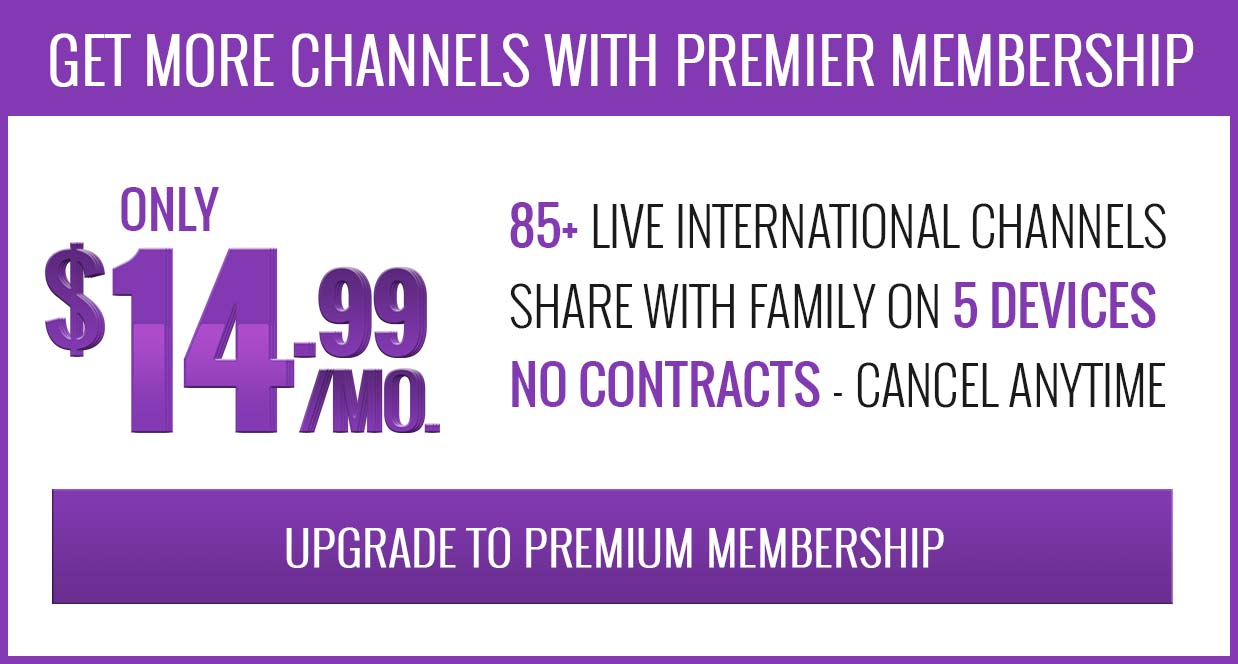
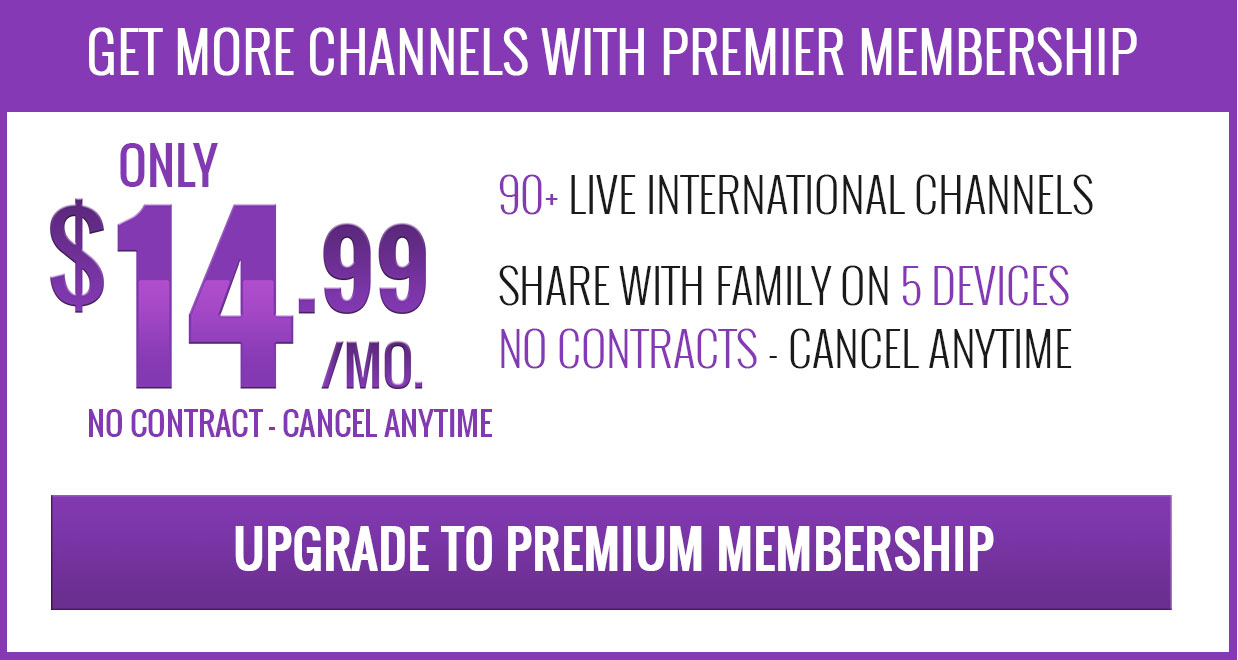
welcome email

diff --git a/server/common/config/all.js b/server/common/config/all.js
@@ -154,7 +154,7 @@ module.exports = {
         es: '¡Bienvenido a YipTV!'
     },
     accountVerifiedEmailBody: {
-        en: '<table cellpadding="0" cellspacing="0" border="0" style="background-color:#fff;width:800px;height:100%;font-family:Helvetica"><tr><td align="center"><table cellpadding="0" cellspacing="0" border="0"><tr><td><table cellpadding="0" cellspacing="0" border="0" style="width:100%"><tr><td style="text-align:center"><img style="vertical-align:middle" title="YipTV" alt="YipTV" src="{0}emails/common/welcome-header.jpg"></table><tr><td><table cellpadding="0" cellspacing="0" border="0" style="width:100%"><tr><td style="text-align:center"><img style="vertical-align:middle" title="YipTV" alt="YipTV" src="{0}emails/en/welcome-headline.jpg"></table><tr><td>&nbsp;<tr><td><table cellpadding="0" cellspacing="0" border="0" style="width:100%"><tr><td width="15%">&nbsp;<td width="70%" style="color:#380053;font-size:14px;line-height:20px"><p>Hello {1},</p><p>You are now officially a YipTV Member and ready to watch live stream TV! Nice going!</p><td width="15%">&nbsp;<tr><td>&nbsp;<tr><td>&nbsp;<tr><td width="15%">&nbsp;<td width="70%" style="color:#380053;font-size:20px;font-weight:700">Let\'s get started!<td width="15%">&nbsp;<tr><td width="15%">&nbsp;<td width="70%" style="color:#380053;font-size:14px;padding-top:5px">Download our FREE app or <a href="https://app.yiptv.com/sign-in?lang=en">watch in your desktop browser</a>.<td width="15%">&nbsp;</table><tr><td>&nbsp;<tr><td><table cellpadding="0" cellspacing="0" border="0" style="width:100%"><tr><td colspan="2" style="text-align:center"><img style="vertical-align:middle" title="YipTV" alt="YipTV" src="{0}emails/common/app-image-in-phone.jpg"><tr><td>&nbsp;<tr><td style="text-align:right;padding-right:5px"><a href="https://play.google.com/store/apps/details?id=com.yiptv.android.client3"><img style="vertical-align:middle" src="{0}emails/common/google-play.png"></a><td style="text-align:left;padding-left:5px"><a href="https://itunes.apple.com/us/app/yiptv-live-tv-for-international/id972197370?mt=8"><img style="vertical-align:middle" src="{0}emails/common/app-store.png"></a></table><tr><td>&nbsp;<tr><td><table cellpadding="0" cellspacing="0" border="0" style="width:100%"><tr><td width="15%">&nbsp;<td width="70%"><table cellpadding="0" cellspacing="0" border="0" style="width:100%;background-color:#E7FEC6;padding:10px 10px 0 10px"><tr><td style="color:#75CE00;font-weight:700;font-size:20px">Free Membership<tr><td style="color:#471752;font-size:14px;padding-top:5px">New to YipTV? Log in now, because for the next 7 days, you have access to 9 Bonus Channels! Upgrade to Premium Membership anytime or keep your Free Membership for as long as you like - hassle free.<tr><td style="padding-top:20px"><p style="color:#75CE00;font-weight:700;font-size:14px">Here\'s what you get:</p><ul style="color:#75CE00;font-size:14px"><li><span style="color:#471752">17 FREE channels with sports, movies, news, and entertainment programming.</span></li><li><span style="color:#471752">9 Bonus Channels FREE for the first 7 days.</span></li><li><span style="color:#471752">Live stream on 2 of your favorite devices simultaneously.</span></li><li><span style="color:#471752">FREE Android or Apple app.</span></li></ul><tr><td><table cellpadding="0" cellspacing="0" border="0" style="width:100%"><tr><td width="10%" style="font-size:150px;font-weight:700;color:#7ED008">9<td width="63%"><table cellpadding="0" cellspacing="0" border="0" style="width:100%;padding-left:5px"><tr><td style="font-size:31px;font-weight:700;color:#7ED008">FREE ADDITIONAL<tr><td style="font-size:30px;font-weight:700;color:#7ED008">BONUS CHANNELS<tr><td style="font-size:23px;color:#7ED008">FOR YOUR FIRST 7 DAYS</table><td width="27%"><img src="{0}emails/common/channel-box.png"></table></table><td width="15%">&nbsp;</table><tr><td>&nbsp;<tr><td><table cellpadding="0" cellspacing="0" border="0" style="width:100%"><tr><td width="15%">&nbsp;<td width="70%"><table cellpadding="0" cellspacing="0" border="0" style="width:100%;background-color:#EDF4FA;padding:10px 10px 30px 10px"><tr><td style="color:#7500AC;font-weight:700;font-size:20px">Premium Membership<tr><td style="color:#471752;font-size:14px;padding-top:5px">Decided to go Premium? Congratulations, you now have access to 90+ high quality live channels for one low monthly price!<tr><td style="padding-top:20px"><p style="color:#7500AC;font-weight:700;font-size:14px">Premium Membership includes:</p><ul style="color:#7500AC;font-size:14px"><li><span style="color:#471752">90+ high quality live channels.</span></li><li><span style="color:#471752">Watch on 5 devices simultaneously.</span></li><li><span style="color:#471752">FREE Android or Apple app.</span></li></ul><tr><td><p style="color:#7500AC;font-weight:700;font-size:14px">Not yet a Premium Member? Get 90+ Channels for only $14.99/mo.!</p></table><td width="15%">&nbsp;</table><tr><td><table cellpadding="0" cellspacing="0" border="0" style="width:100%"><tr><td width="15%">&nbsp;<td width="70%"><table cellpadding="0" cellspacing="0" border="0" style="width:100%;background-color:#300349;padding:10px 10px 10px 10px"><tr><td width="38%" style="color:#7500AC;font-weight:700;font-size:20px"><table cellpadding="0" cellspacing="0" border="0" style="width:100%;padding-left:5px"><tr><td style="font-size:30px;font-weight:700;color:#FFF">UPGRADE TO<tr><td style="font-size:42px;font-weight:700;color:#FFF">PREMIUM<tr><td style="font-size:19px;color:#FFF">ONLY $14.99/MONTH!</table><td width="64%"><ul style="color:#FFF;font-size:16px;padding-top:10px"><li><span style="color:#FBF7FC">90+ LIVE international channels.</span></li><li><span style="color:#FBF7FC">Stream on up to 5 devices simultaneously to share with family.</span></li><li><span style="color:#FBF7FC">No contract - cancel any time.</span></li></ul></table><td width="15%">&nbsp;<tr><td>&nbsp;<tr><td colspan="3" style="text-align:center"><a href="https://www.yiptv.com/live-tv/index.php/en/sign-up/premium/"><img src="{0}emails/en/upgrade-button.png"></a><tr><td>&nbsp;<tr><td>&nbsp;<tr><td colspan="3" style="text-align:center;font-size:16px;color:#000">CONNECT WITH US<tr><td colspan="3" style="text-align:center"><a href="https://www.facebook.com/YipTV/"><img src="{0}emails/common/facebook.png"></a> <a href="https://twitter.com/YipTV"><img src="{0}emails/common/twitter.png"></a> <a href="http://linkedin.com/company/yiptv"><img src="{0}emails/common/linkedin.png"></a> <a href="https://plus.google.com/110377468150377213884"><img src="{0}emails/common/google-plus.png"></a><tr><td>&nbsp;<tr><td colspan="3" style="text-align:center;font-size:22px;color:#898889">QUESTIONS? NO PROBLEM, CALL US! 855-919-4788</table><tr><td><table cellpadding="0" cellspacing="0" border="0" style="width:100%"><tr><td width="15%">&nbsp;<td width="70%"><table cellpadding="0" cellspacing="0" border="0" style="width:100%;background-color:#878787;padding:10px 10px 10px 10px"><tr><td width="33%" style="text-align:center"><a style="color:#FFF;font-weight:700;font-size:16px;text-decoration:none" href="https://www.yiptv.com/live-tv/index.php/en/yip-now/">VISIT OUR BLOG</a><td width="34%" style="text-align:center"><a style="color:#FFF;font-weight:700;font-size:16px;text-decoration:none" href="https://www.yiptv.com/live-tv/index.php/en/faqs/">FAQs</a><td width="33%" style="text-align:center"><a style="color:#FFF;font-weight:700;font-size:16px;text-decoration:none" href="https://app.yiptv.com/contact-us?lang=en">CONTACT</a><tr><td>&nbsp;<tr><td>&nbsp;<tr><td colspan="3" style="color:#FFF;font-size:12px;text-align:center">Copyright &copy; 2015 YipTV, Inc., All rights reserved.</table><td width="15%">&nbsp;<tr><td>&nbsp;</table></table></table>',
+        en: '<table cellpadding="0" cellspacing="0" border="0" style="background-color:#fff;width:800px;height:100%;font-family:Helvetica"><tr><td align="center"><table cellpadding="0" cellspacing="0" border="0"><tr><td><table cellpadding="0" cellspacing="0" border="0" style="width:100%"><tr><td style="text-align:center"><img style="vertical-align:middle" src="{0}emails/common/welcome-header.jpg"></table><tr><td><table cellpadding="0" cellspacing="0" border="0" style="width:100%"><tr><td style="text-align:center"><img style="vertical-align:middle" src="{0}emails/en/welcome-headline.jpg"></table><tr><td>&nbsp;<tr><td><table cellpadding="0" cellspacing="0" border="0" style="width:100%"><tr><td width="15%">&nbsp;<td width="70%" style="color:#380053;font-size:14px;line-height:20px"><p>Hello {1},</p><p>You are now officially a YipTV Member and ready to watch live stream TV! Nice going!</p><td width="15%">&nbsp;<tr><td>&nbsp;<tr><td>&nbsp;<tr><td width="15%">&nbsp;<td width="70%" style="color:#380053;font-size:20px;font-weight:700">Let\'s get started!<td width="15%">&nbsp;<tr><td width="15%">&nbsp;<td width="70%" style="color:#380053;font-size:14px;padding-top:5px">Download our FREE app or <a href="https://app.yiptv.com/sign-in?lang=en">watch in your desktop browser</a>.<td width="15%">&nbsp;</table><tr><td>&nbsp;<tr><td><table cellpadding="0" cellspacing="0" border="0" style="width:100%"><tr><td colspan="2" style="text-align:center"><img style="vertical-align:middle" src="{0}emails/common/app-image-in-phone.jpg"><tr><td>&nbsp;<tr><td style="text-align:right;padding-right:5px"><a href="https://play.google.com/store/apps/details?id=com.yiptv.android.client3"><img style="vertical-align:middle" src="{0}emails/common/google-play.png"></a><td style="text-align:left;padding-left:5px"><a href="https://itunes.apple.com/us/app/yiptv-live-tv-for-international/id972197370?mt=8"><img style="vertical-align:middle" src="{0}emails/common/app-store.png"></a></table><tr><td>&nbsp;<tr><td><table cellpadding="0" cellspacing="0" border="0" style="width:100%"><tr><td width="15%">&nbsp;<td width="70%"><table cellpadding="0" cellspacing="0" border="0" style="width:100%;background-color:#E7FEC6;padding:10px 10px 0 10px"><tr><td style="color:#75CE00;font-weight:700;font-size:20px">Free Membership<tr><td style="color:#471752;font-size:14px;padding-top:5px">New to YipTV? Log in now, because for the next 7 days, you have access to 9 Bonus Channels! Upgrade to Premium Membership anytime or keep your Free Membership for as long as you like - hassle free.<tr><td style="padding-top:20px"><p style="color:#75CE00;font-weight:700;font-size:14px">Here\'s what you get:</p><ul style="color:#75CE00;font-size:14px"><li><span style="color:#471752">17 FREE channels with sports, movies, news, and entertainment programming.</span></li><li><span style="color:#471752">9 Bonus Channels FREE for the first 7 days.</span></li><li><span style="color:#471752">Live stream on 2 of your favorite devices simultaneously.</span></li><li><span style="color:#471752">FREE Android or Apple app.</span></li></ul><tr><td><table cellpadding="0" cellspacing="0" border="0" style="width:100%"><tr><td width="100%" style="text-align:center"><img src="{0}emails/en/free-section.jpg"></table></table><td width="15%">&nbsp;</table><tr><td>&nbsp;<tr><td><table cellpadding="0" cellspacing="0" border="0" style="width:100%"><tr><td width="15%">&nbsp;<td width="70%"><table cellpadding="0" cellspacing="0" border="0" style="width:100%;background-color:#EDF4FA;padding:10px 10px 30px 10px"><tr><td style="color:#7500AC;font-weight:700;font-size:20px">Premium Membership<tr><td style="color:#471752;font-size:14px;padding-top:5px">Decided to go Premium? Congratulations, you now have access to 90+ high quality live channels for one low monthly price!<tr><td style="padding-top:20px"><p style="color:#7500AC;font-weight:700;font-size:14px">Premium Membership includes:</p><ul style="color:#7500AC;font-size:14px"><li><span style="color:#471752">90+ high quality live channels.</span></li><li><span style="color:#471752">Watch on 5 devices simultaneously.</span></li><li><span style="color:#471752">FREE Android or Apple app.</span></li></ul><tr><td><p style="color:#7500AC;font-weight:700;font-size:14px">Not yet a Premium Member? Get 90+ Channels for only $14.99/mo.!</p></table><td width="15%">&nbsp;</table><tr><td><table cellpadding="0" cellspacing="0" border="0" style="width:100%"><tr><td width="15%">&nbsp;<td width="70%"><table cellpadding="0" cellspacing="0" border="0" style="width:100%;background-color:#300349;padding:10px 10px 10px 10px"><tr><td style="text-align:center"><img src="{0}emails/en/premium-section.jpg"></table><td width="15%">&nbsp;<tr><td>&nbsp;<tr><td colspan="3" style="text-align:center"><a href="https://www.yiptv.com/live-tv/index.php/en/sign-up/premium/"><img src="{0}emails/en/upgrade-button.png"></a><tr><td>&nbsp;<tr><td>&nbsp;<tr><td colspan="3" style="text-align:center;font-size:16px;color:#000">CONNECT WITH US<tr><td colspan="3" style="text-align:center"><a href="https://www.facebook.com/YipTV/"><img src="{0}emails/common/facebook.png"></a> <a href="https://twitter.com/YipTV"><img src="{0}emails/common/twitter.png"></a> <a href="http://linkedin.com/company/yiptv"><img src="{0}emails/common/linkedin.png"></a> <a href="https://plus.google.com/110377468150377213884"><img src="{0}emails/common/google-plus.png"></a><tr><td>&nbsp;<tr><td colspan="3" style="text-align:center;font-size:18px;color:#898889">QUESTIONS? NO PROBLEM, CALL US! 855-919-4788</table><tr><td><table cellpadding="0" cellspacing="0" border="0" style="width:100%"><tr><td width="15%">&nbsp;<td width="70%"><table cellpadding="0" cellspacing="0" border="0" style="width:100%;background-color:#878787;padding:10px 10px 10px 10px"><tr><td width="33%" style="text-align:center"><a style="color:#FFF;font-weight:700;font-size:16px;text-decoration:none" href="https://www.yiptv.com/live-tv/index.php/en/yip-now/">VISIT OUR BLOG</a><td width="34%" style="text-align:center"><a style="color:#FFF;font-weight:700;font-size:16px;text-decoration:none" href="https://www.yiptv.com/live-tv/index.php/en/faqs/">FAQs</a><td width="33%" style="text-align:center"><a style="color:#FFF;font-weight:700;font-size:16px;text-decoration:none" href="https://app.yiptv.com/contact-us?lang=en">CONTACT</a><tr><td>&nbsp;<tr><td>&nbsp;<tr><td colspan="3" style="color:#FFF;font-size:12px;text-align:center">Copyright &copy; 2015 YipTV, Inc., All rights reserved.</table><td width="15%">&nbsp;<tr><td>&nbsp;</table></table></table>',
         es: '<table cellpadding="0" cellspacing="0" border="0" style="background-color:#fff; width:100%;height:100%"> <tr> <td align="center"> <table cellpadding="0" cellspacing="0" border="0" style="background-color:#fff;color:#000;width:80%;font-size:14px;font-family:Verdana"> <tr style="background-color:#f4f1ec"> <td style="padding:10px"> <table cellpadding="0" cellspacing="0" border="0"> <tr> <td><img width="87" height="80" style="vertical-align:middle" title="YipTV" alt="YipTV" src="{0}logo.png"/></td> </tr> </table> </td> </tr> <tr> <td style="width:90%;padding:20px 50px;color: #000;font-size:14px;font-family:Verdana;text-align:justify"> <p>¡Felicidades y gracias por afiliarte a YipTV!</p><br/> <p>Tu Membresía Gratis está activada y ya puedes empezar a disfrutar de TV Gratis en tu celular, y otros dispositivos. No olvides que tu membresía incluye 9 canales de la Membresía Premias para disfrutar por ¡7 días gratis!</p> <p>Gracias por ser miembro de nuestra familia YipTV, y recuerda que en YipTV, nuestro mayor deseo es que puedas ver ¡televisión sin complicación!</p> </td> </tr> <tr> <td style="width:90%;padding:20px 50px;font-size:14px;font-family:Verdana;text-align:justify"> <table cellpadding="0" cellspacing="0" border="0"> <tr> <td style="padding:10px;border-radius:5px;border:1px solid #A03269;background-color:#A03269;font-family:Verdana;font-weight:bold"><a style="display:inline-block;text-decoration:none;color:#fff" href="{1}">Iniciar</a></td> </tr> </table> </td> </tr> <tr> <td style="width:90%;padding:20px 50px;color: #000;font-size:14px;font-family:Verdana;text-align:justify"> <p>O haz clic aquí:</p> <p><a href="{1}">{1}</a></p><br/> </td> </tr> <tr style="background-color:#f4f1ec"> <td align="center" style="padding:20px;font-family:Verdana;font-size: 12px"> Favor de no responder a este mensaje; fue enviado de un email no monitoreado. Este mensaje es enviado de un email de servicio relacionado a tu uso de YipTV. <br/><br/> <p style="color:#808080">YipTV Inc., West Palm Beach, FL, USA</p> </td> </tr> </table> </td> </tr></table>'
     },
     crmPasswordChangedEmailSubject: {

diff --git a/server/common/email-templates/account-verified/en.html b/server/common/email-templates/account-verified/en.html
@@ -6,7 +6,7 @@
                     <td>
                         <table cellpadding="0" cellspacing="0" border="0" style="width:100%">
                             <tr>
-                                <td style="text-align: center;"><img style="vertical-align:middle" title="YipTV" alt="YipTV" src="{0}emails/common/welcome-header.jpg"/></td>
+                                <td style="text-align: center;"><img style="vertical-align:middle" src="{0}emails/common/welcome-header.jpg"/></td>
                             </tr>
                         </table>
                     </td>
@@ -15,7 +15,7 @@
                     <td>
                         <table cellpadding="0" cellspacing="0" border="0" style="width:100%">
                             <tr>
-                                <td style="text-align: center;"><img style="vertical-align:middle" title="YipTV" alt="YipTV" src="{0}emails/en/welcome-headline.jpg"/></td>
+                                <td style="text-align: center;"><img style="vertical-align:middle" src="{0}emails/en/welcome-headline.jpg"/></td>
                             </tr>
                         </table>
                     </td>
@@ -65,7 +65,7 @@
                     <td>
                         <table cellpadding="0" cellspacing="0" border="0" style="width:100%">
                             <tr>
-                                <td colspan="2" style="text-align: center;"><img style="vertical-align:middle" title="YipTV" alt="YipTV" src="{0}emails/common/app-image-in-phone.jpg"/></td>
+                                <td colspan="2" style="text-align: center;"><img style="vertical-align:middle" src="{0}emails/common/app-image-in-phone.jpg"/></td>
                             </tr>
                             <tr>
                                 <td>&nbsp;</td>
@@ -108,21 +108,7 @@
                                             <td>
                                                 <table cellpadding="0" cellspacing="0" border="0" style="width:100%;">
                                                     <tr>
-                                                        <td width="10%" style="font-size:150px;font-weight: bold;color:#7ED008">9</td>
-                                                        <td width="63%">
-                                                            <table cellpadding="0" cellspacing="0" border="0" style="width:100%;padding-left:5px">
-                                                                <tr>
-                                                                    <td style="font-size:31px;font-weight: bold;color:#7ED008">FREE ADDITIONAL</td>
-                                                                </tr>
-                                                                <tr>
-                                                                    <td style="font-size:30px;font-weight: bold;color:#7ED008">BONUS CHANNELS</td>
-                                                                </tr>
-                                                                <tr>
-                                                                    <td style="font-size:23px;color:#7ED008">FOR YOUR FIRST 7 DAYS</td>
-                                                                </tr>
-                                                            </table>
-                                                        </td>
-                                                        <td width="27%"><img src="{0}emails/common/channel-box.png"></td>
+                                                        <td width="100%" style="text-align: center"><img src="{0}emails/en/free-section.jpg"/></td>
                                                     </tr>
                                                 </table>
                                             </td>
@@ -180,26 +166,7 @@
                                 <td width="70%">
                                     <table cellpadding="0" cellspacing="0" border="0" style="width:100%;background-color: #300349;padding:10px 10px 10px 10px">
                                         <tr>
-                                            <td width="38%" style="color:#7500AC;font-weight: bold;font-size:20px">
-                                                <table cellpadding="0" cellspacing="0" border="0" style="width:100%;padding-left:5px">
-                                                    <tr>
-                                                        <td style="font-size:30px;font-weight: bold;color:#FFF">UPGRADE TO</td>
-                                                    </tr>
-                                                    <tr>
-                                                        <td style="font-size:42px;font-weight: bold;color:#FFF">PREMIUM</td>
-                                                    </tr>
-                                                    <tr>
-                                                        <td style="font-size:19px;color:#FFF">ONLY $14.99/MONTH!</td>
-                                                    </tr>
-                                                </table>
-                                            </td>
-                                            <td width="64%">
-                                                <ul style="color:#FFF;font-size:16px;padding-top:10px">
-                                                    <li><span style="color:#FBF7FC">90+ LIVE international channels.</span></li>
-                                                    <li><span style="color:#FBF7FC">Stream on up to 5 devices simultaneously to share with family.</span></li>
-                                                    <li><span style="color:#FBF7FC">No contract - cancel any time.</span></li>
-                                                </ul>
-                                            </td>
+                                            <td style="text-align: center;"><img src="{0}emails/en/premium-section.jpg"/></td>
                                         </tr>
                                     </table>
                                 </td>
@@ -232,7 +199,7 @@
                                 <td>&nbsp;</td>
                             </tr>
                             <tr>
-                                <td colspan="3" style="text-align: center;font-size: 22px;color:#898889">QUESTIONS? NO PROBLEM, CALL US! 855-919-4788</td>
+                                <td colspan="3" style="text-align: center;font-size: 18px;color:#898889">QUESTIONS? NO PROBLEM, CALL US! 855-919-4788</td>
                             </tr>
                         </table>
                     </td>
